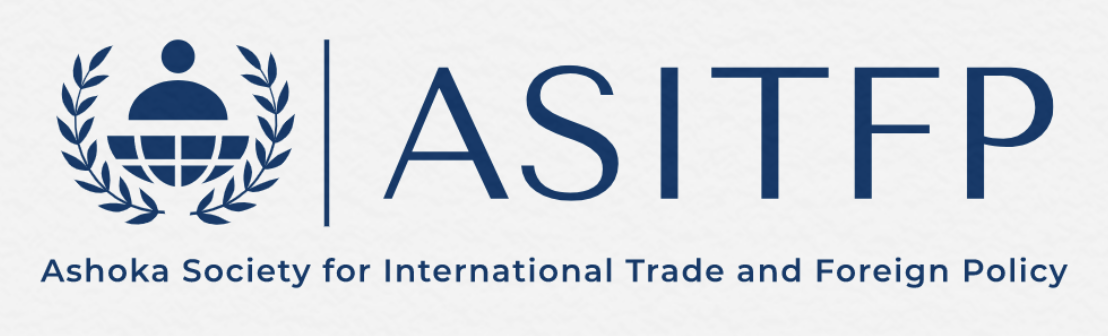
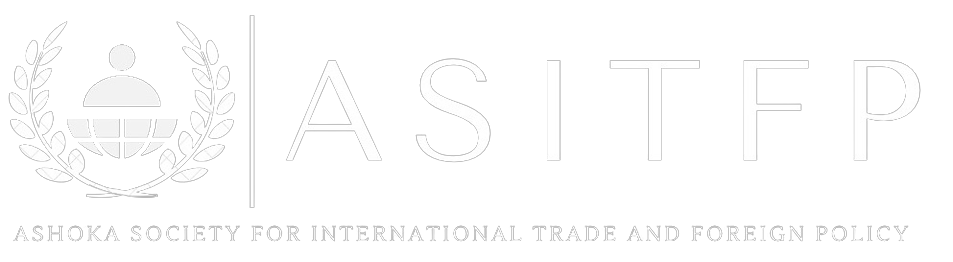
updates

Changed region(s): [[0.0304, 0.1221, 0.9738, 0.7023], [0.0, 0.7023, 0.9738, 0.916]]

diff --git a/about.html b/about.html
@@ -261,7 +261,7 @@ An e-newspaper in the form of a Foreign Policy Review will keep the student body
               <div class="single-team-member">
                 <div class="img">
                   <a href="#">
-                    <img style="max-height:500px;width:90%" class="mx-auto d-block" src="assets/img/team/ananya.jpeg" alt="">
+                    <img style="max-height:500px;width:68%" class="mx-auto d-block" src="assets/img/team/ananya.jpeg" alt="">
                   </a>
                   <div class="team-social-icon text-center">
                     <ul>
@@ -299,7 +299,7 @@ An e-newspaper in the form of a Foreign Policy Review will keep the student body
               <div class="single-team-member">
                 <div class="img">
                   <a href="#">
-                    <img style="max-height:500px;width:100%" class="mx-auto d-block" src="assets/img/team/lavanya.jpg" alt="">
+                    <img style="max-height:500px;width:100%" class="mx-auto d-block" src="assets/img/team/lavanya.jpg" alt="Lavanya">
                   </a>
                   <div class="team-social-icon text-center">
                     <ul>
@@ -718,8 +718,7 @@ An e-newspaper in the form of a Foreign Policy Review will keep the student body
             <div class="footer-content">
               <div class="footer-head">
                 <div class="footer-logo">
-                  <h2><span>ASITFP</span></h2>
-                </div>
+                  <img src="assets/img/log1.png" alt="" class="img-fluid">                </div>
 
                 <p>Ashoka Society for International Trade and Foreign Policy serves as a student-friendly forum of understanding economic foreign trade. Founded by Ananya Agarwal and Lavanya Rathi, and under the guidance of our esteemed formal advisors Professor Abhishek Rai and Professor Nayan Chanda and informal advisors Professor Quintijn Kat, Professor Amit Julka and Professor Shivshankar Menon the society will conduct simulations of the WTO, much like an MUN. </p>
                 <div class="footer-icons">
@@ -746,7 +745,7 @@ An e-newspaper in the form of a Foreign Policy Review will keep the student body
                 <h4>information</h4>
                 
                 <div class="footer-contacts">
-                  <p><span>Email:</span> asitfp@ashoka.edu.in</p>,
+                  <p><span>Email:</span> asitfp@ashoka.edu.in</p>
                   <p><span>President Emails:</span>ananya.agarwal_ug24@ashoka.edu.in,<br />lavanya.rathi_ug24@ashoka.edu.in</p>
                   <p><span><a style="text-decoration:none;" href="https://www.linkedin.com/mwlite/company/ashoka-society-for-international-trade-and-foreign-policy"><span>Linkedin</span></a></span></p>
                   <p><span><a style="text-decoration:none;" href="https://instagram.com/asitfp?igshid=YzcxN2Q2NzY0OA=="><span>Instagram</span></a></span></p>
@@ -760,12 +759,12 @@ An e-newspaper in the form of a Foreign Policy Review will keep the student body
               <div class="footer-head">
                 <h4>Instagram</h4>
                 <div class="flicker-img">
-                  <a href="#"><img src="assets/img/portfolio/1.heic" alt=""></a>
-                  <a href="#"><img src="assets/img/portfolio/2.heic" alt=""></a>
-                  <a href="#"><img src="assets/img/portfolio/3.webp" alt=""></a>
-                  <a href="#"><img src="assets/img/portfolio/4.webp" alt=""></a>
-                  <a href="#"><img src="assets/img/portfolio/5.webp" alt=""></a>
-                  <a href="#"><img src="assets/img/portfolio/6.webp" alt=""></a>
+                  <a href="#"><img style="width:150px;height:150px" src="assets/img/portfolio/1.heic" alt=""></a>
+                  <a href="#"><img style="width:150px;height:150px" src="assets/img/portfolio/2.heic" alt=""></a>
+                  <a href="#"><img style="width:150px;height:150px" src="assets/img/portfolio/3.webp" alt=""></a>
+                  <a href="#"><img style="width:150px;height:150px" src="assets/img/portfolio/4.webp" alt=""></a>
+                  <a href="#"><img style="width:150px;height:150px" src="assets/img/portfolio/5.webp" alt=""></a>
+                  <a href="#"><img style="width:150px;height:150px" src="assets/img/portfolio/6.webp" alt=""></a>
                 </div>
               </div>
             </div>
